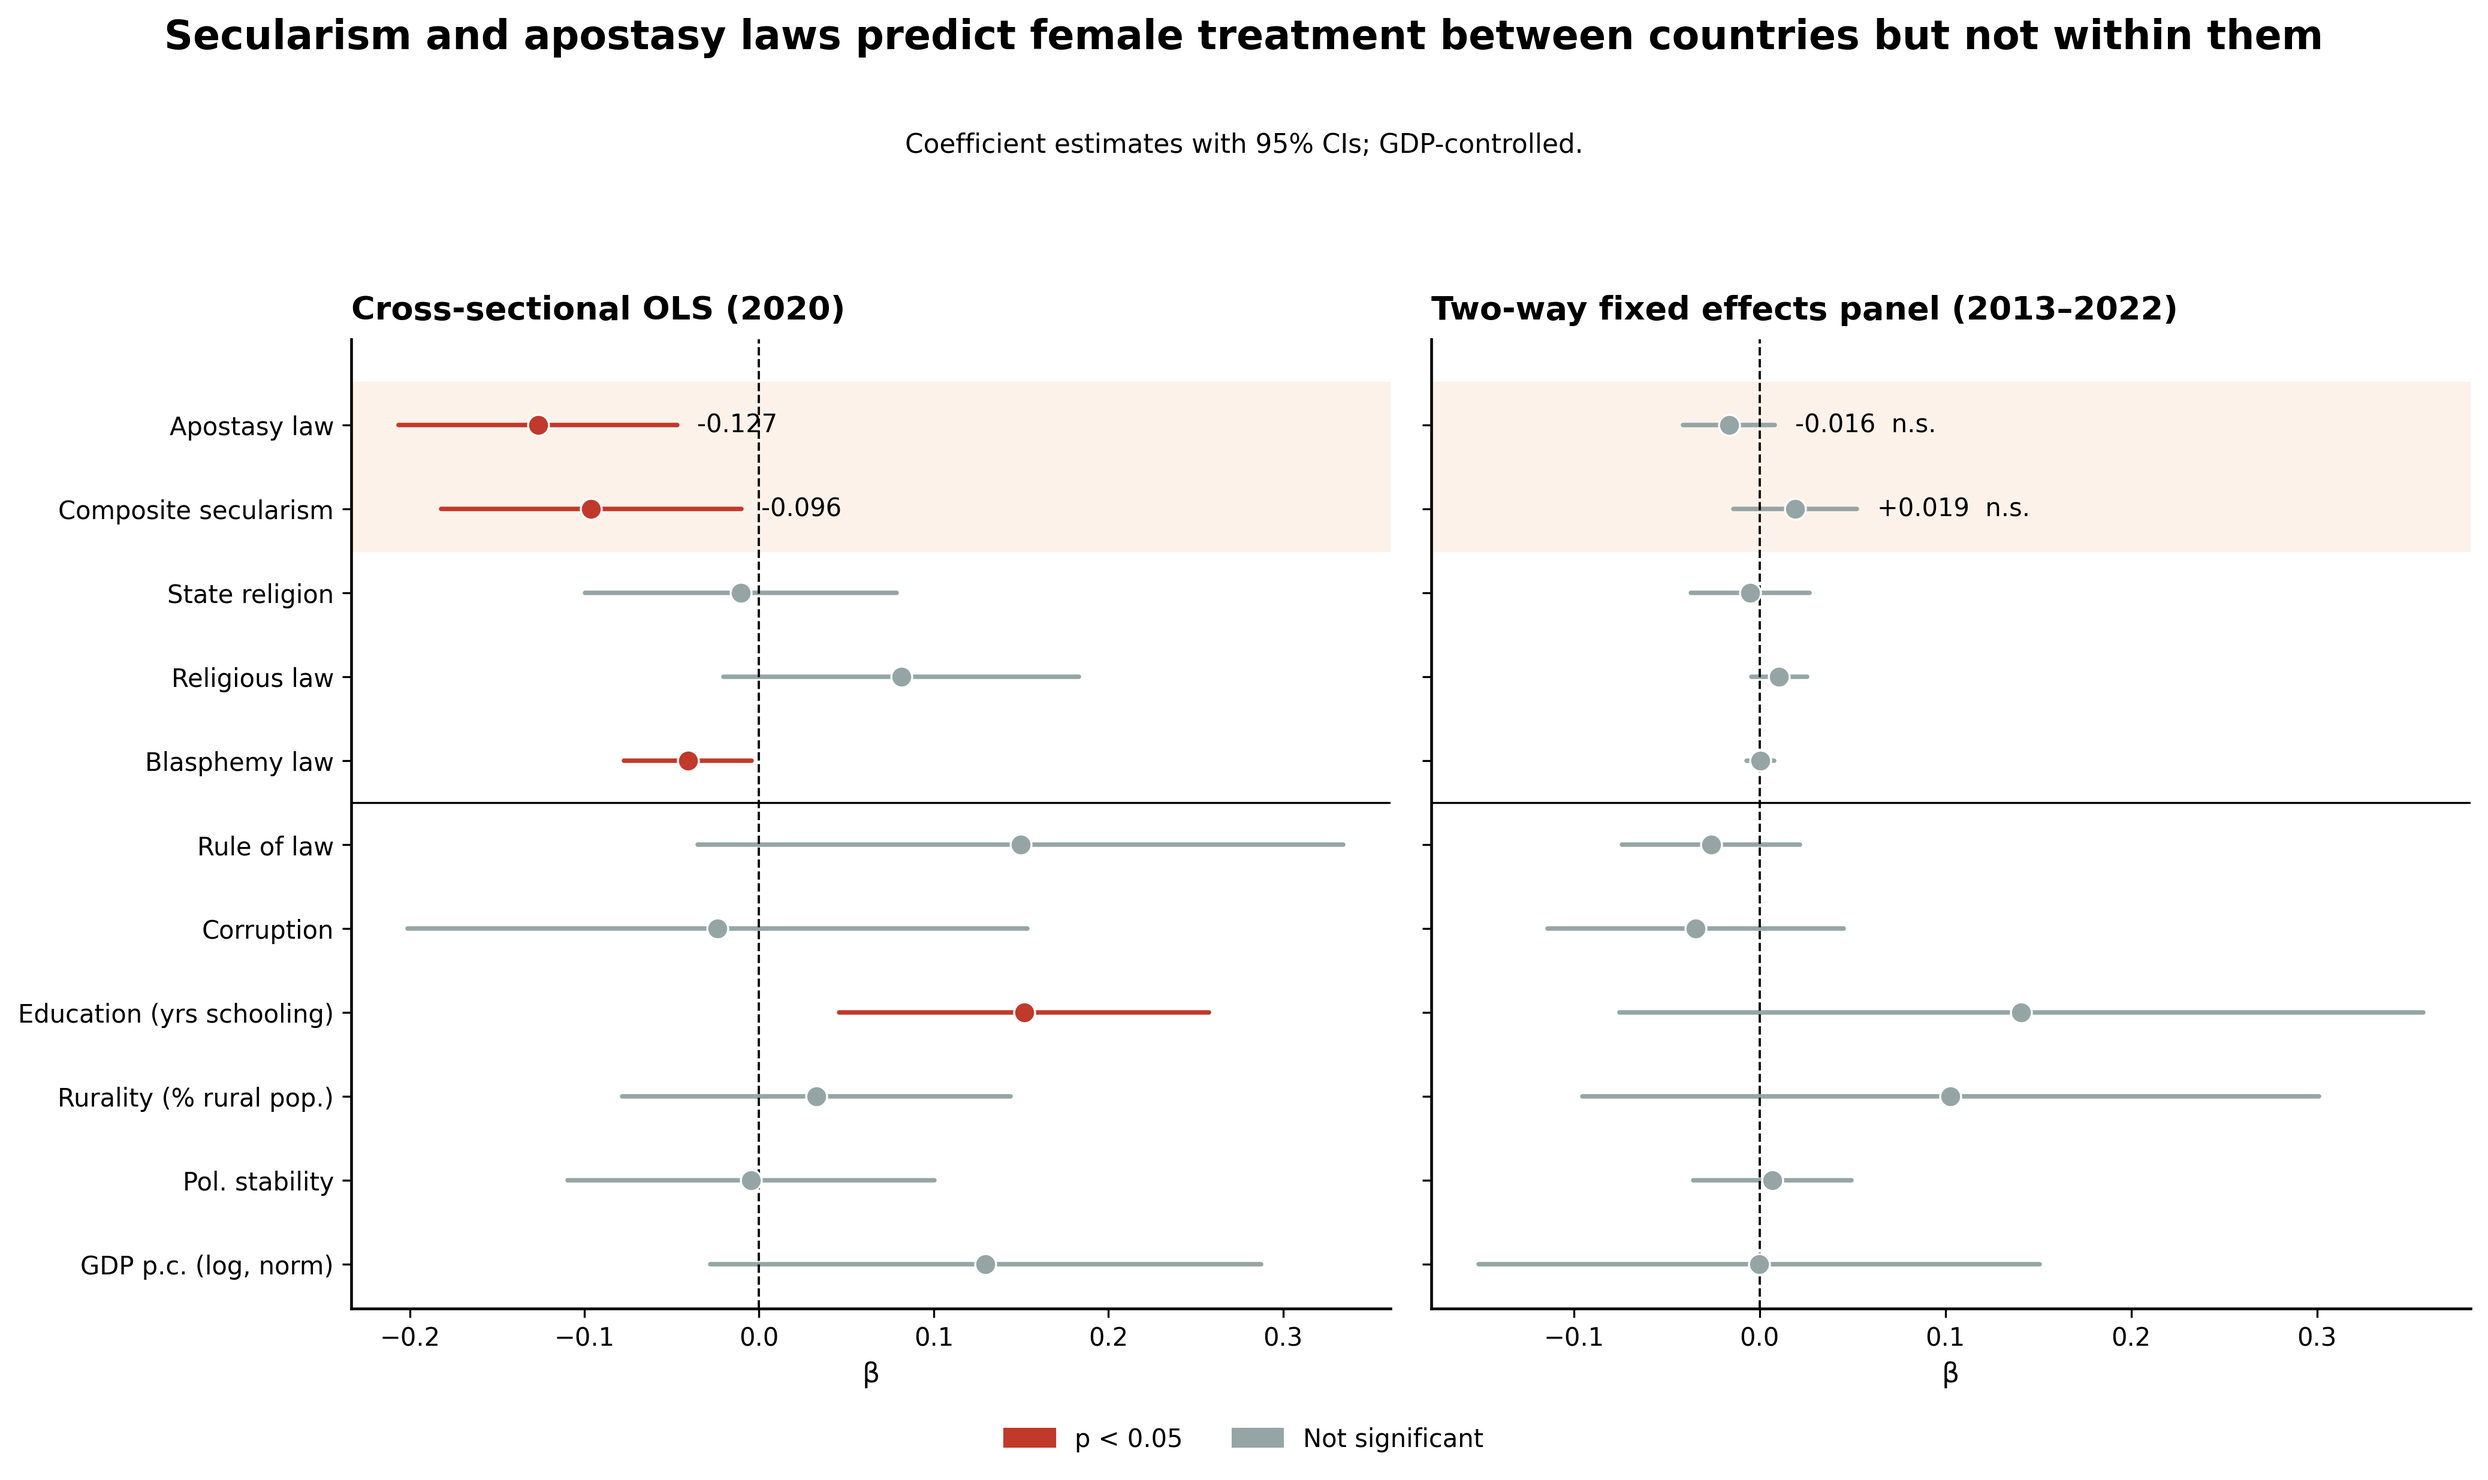
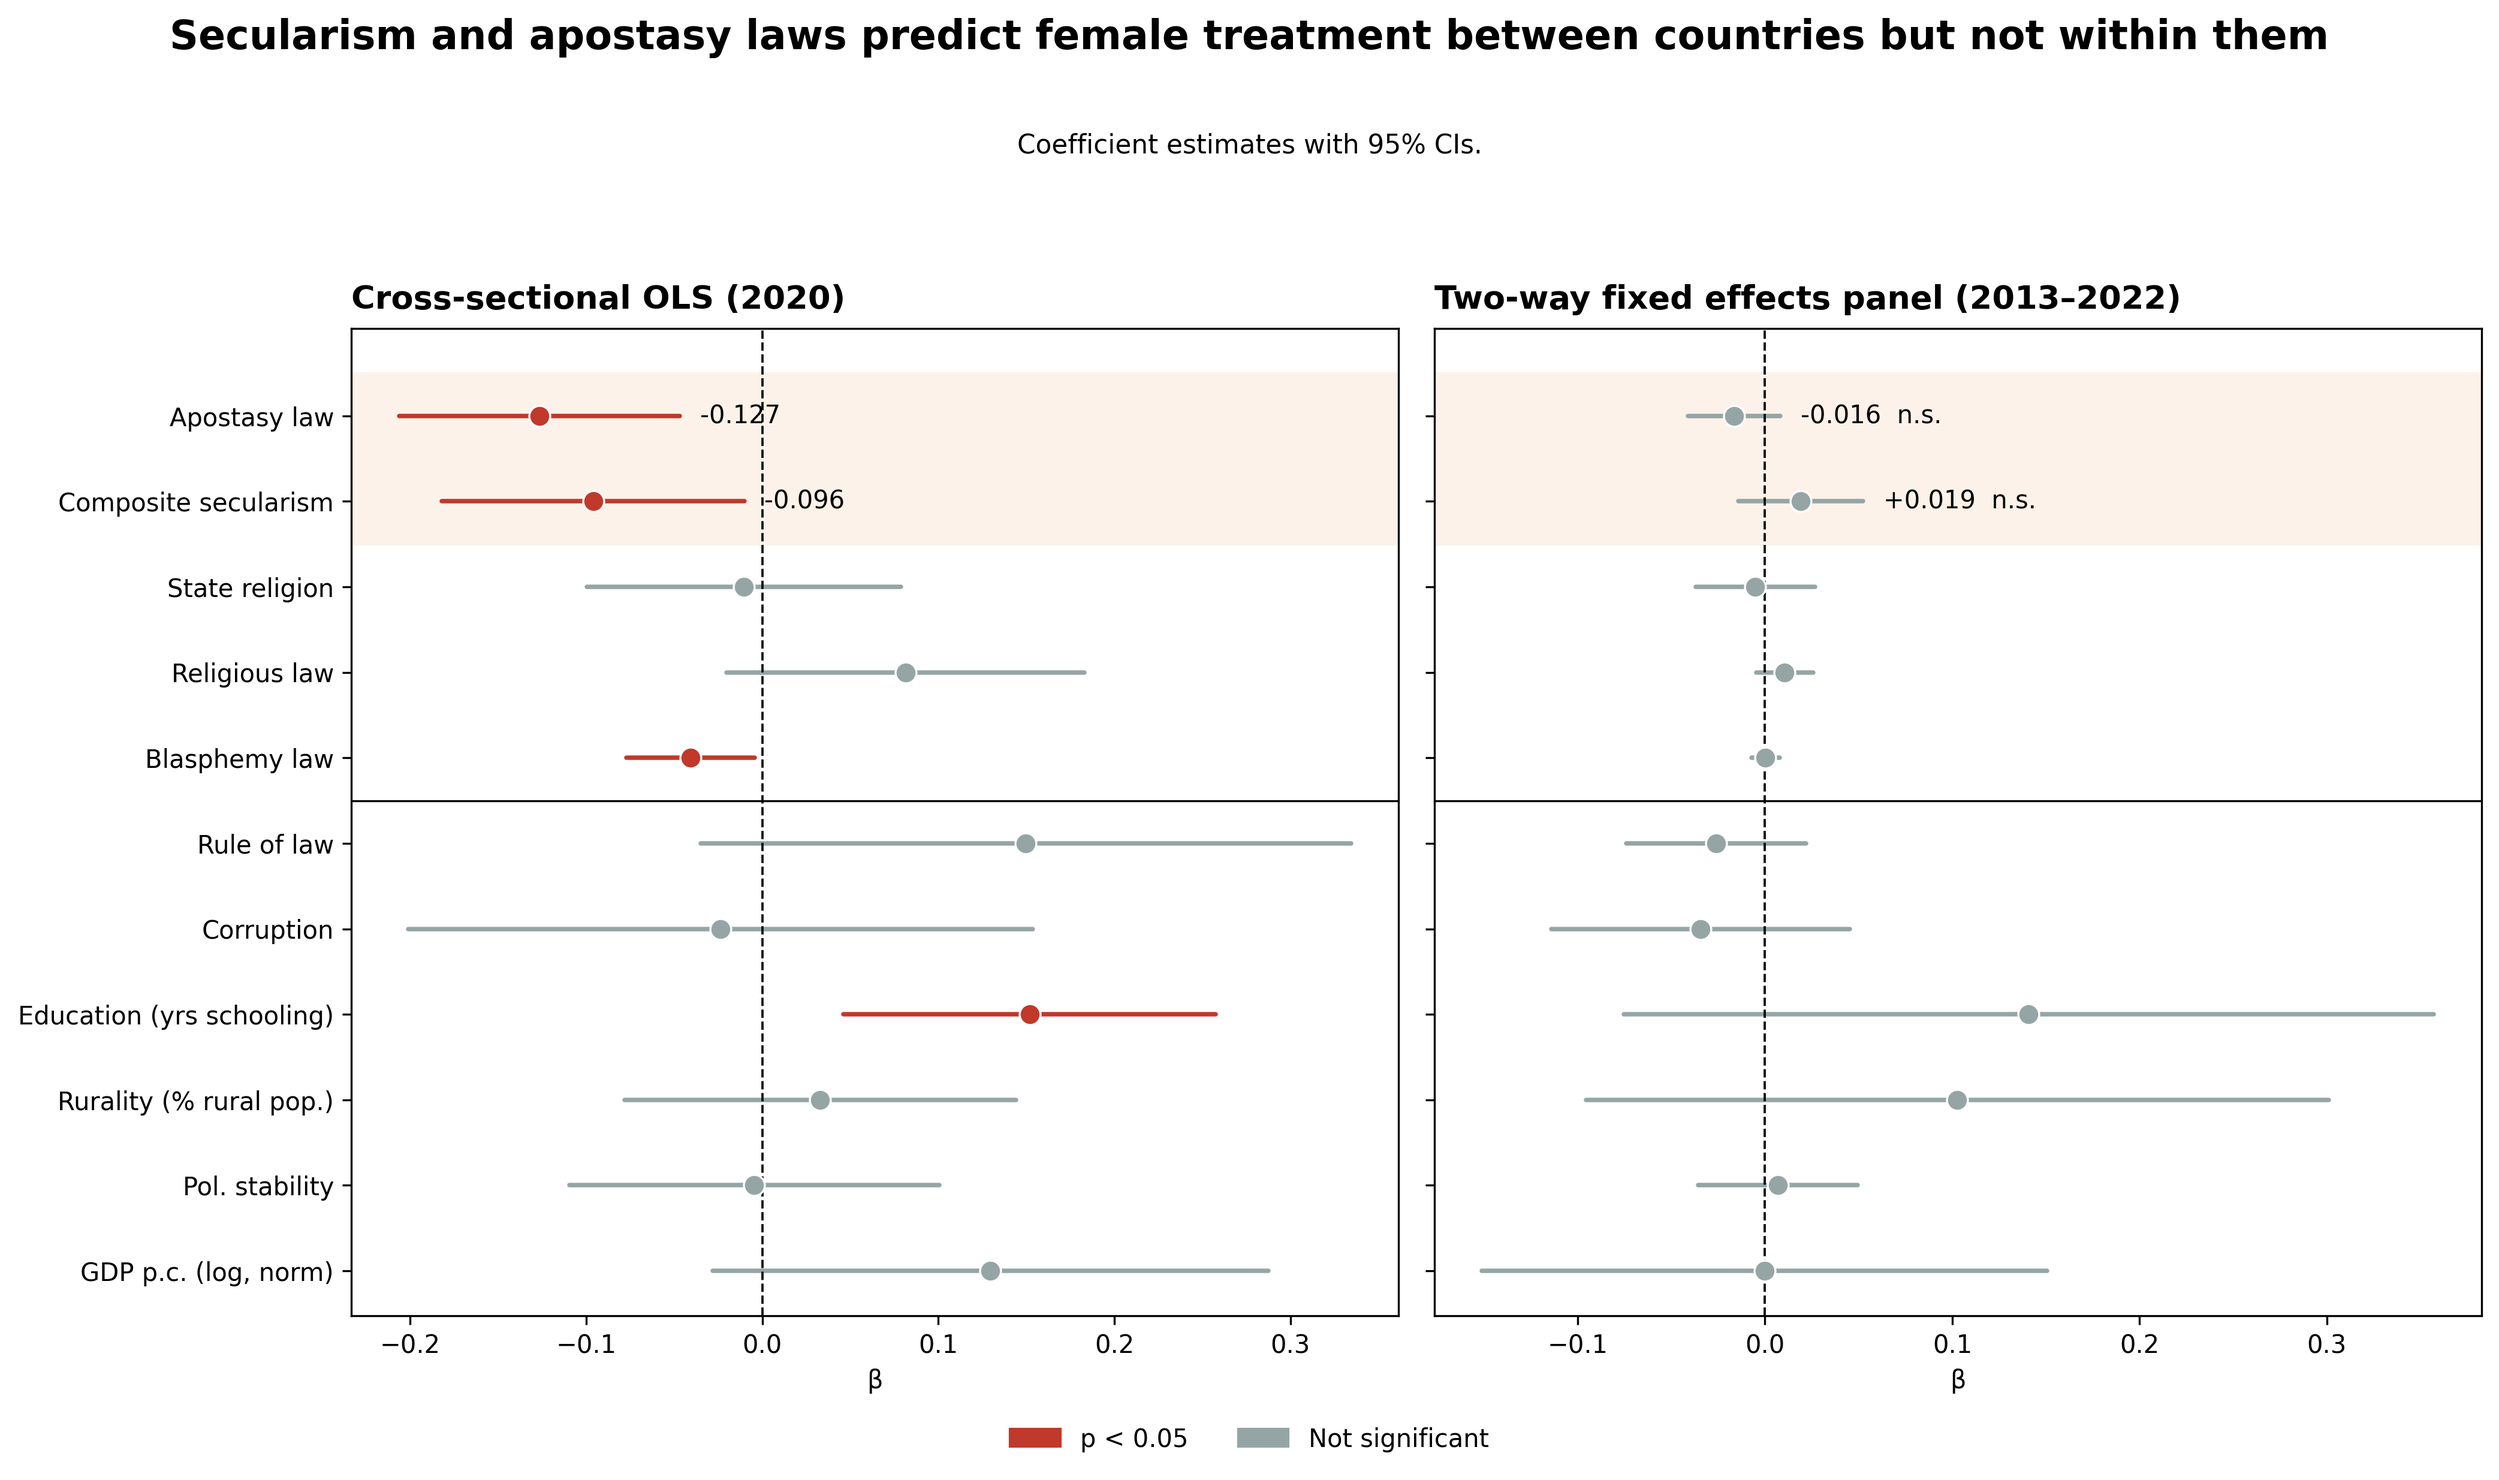
fix(figures): relabel 'FE + GDP' to 'FE + 6 controls' to   reflect full control set

diff --git a/analysis/run_plots.py b/analysis/run_plots.py
@@ -390,7 +390,7 @@ def plot_coefplot():
     )
     fig.text(
         0.5, 0.96,
-        "Coefficient estimates with 95% CIs; GDP-controlled.",
+        "Coefficient estimates with 95% CIs.",
         ha="center", fontsize=10.5, color="black",
     )
 
@@ -788,14 +788,13 @@ def _collect_spec_rows(focal_pred, ladder_csv):
             "n":     int(r["n"]),
         })
 
-    _add("Main (FE + GDP)",       "T2_with_gdp")
+    _add("Main (FE + 6 controls)", "T2_with_gdp")
     _add("+ CEDAW",                "T2_with_cedaw")
     _add("Pre-COVID (2008–2019)",  "T2_subperiod_2008_2019")
     _add("Changers only",          "T2_changers_only")
     _add("Lag L1",                 "P4_panel_fe_L1", source=focal_L1)
     _add("Lag L2",                 "P4_panel_fe_L2", source=focal_L2)
     _add("WEF GGG (alt DV)",       "P10_wef_panel")
-    _add("MENA only",              "P10_mena_only")
 
     return rows
 
@@ -839,7 +838,7 @@ def _render_spec_column(ax, rows, panel_title, focal_color):
 def plot_spec_stability():
     """
     Dual-panel specification ladder: courts (left) vs apostasy (right).
-    Each panel shows the bivariate baseline + 8 sensitivity / subsample specs.
+    Each panel shows the bivariate baseline + 7 sensitivity / subsample specs.
     The main spec is highlighted with a pale background band.
     """
     if not os.path.exists(RESULTS_CSV):
@@ -865,13 +864,13 @@ def plot_spec_stability():
     fig.text(
         0.5, 0.95,
         "Composite and apostasy coefficients stable across "
-        "nine specification variants.",
+        "eight specification variants.",
         ha="center", fontsize=10.5, color="#555",
     )
 
     # Q11: flag the composite-vs-apostasy spec asymmetry. The composite
     # side only has Bivariate + Main; the extended specs (CEDAW, pre-COVID,
-    # lag L1/L2, MENA-only, ...) are fitted for apostasy only upstream.
+    # lag L1/L2, ...) are fitted for apostasy only upstream.
     if len(composite_rows) < len(apos_rows):
         axes[0].text(
             0.98, 0.02,
@@ -1086,7 +1085,7 @@ def plot_alternative_outcomes():
     ax.set_yticks(ys)
     ax.set_yticklabels(df_plot["label"], fontsize=11)
     ax.set_xlabel(
-        "β on composite secularism (panel FE + GDP); all outcomes on [0,1] scale",
+        "β on composite secularism (panel FE + 6 controls); all outcomes on [0,1] scale",
         fontsize=10
     )
     fig.suptitle(
